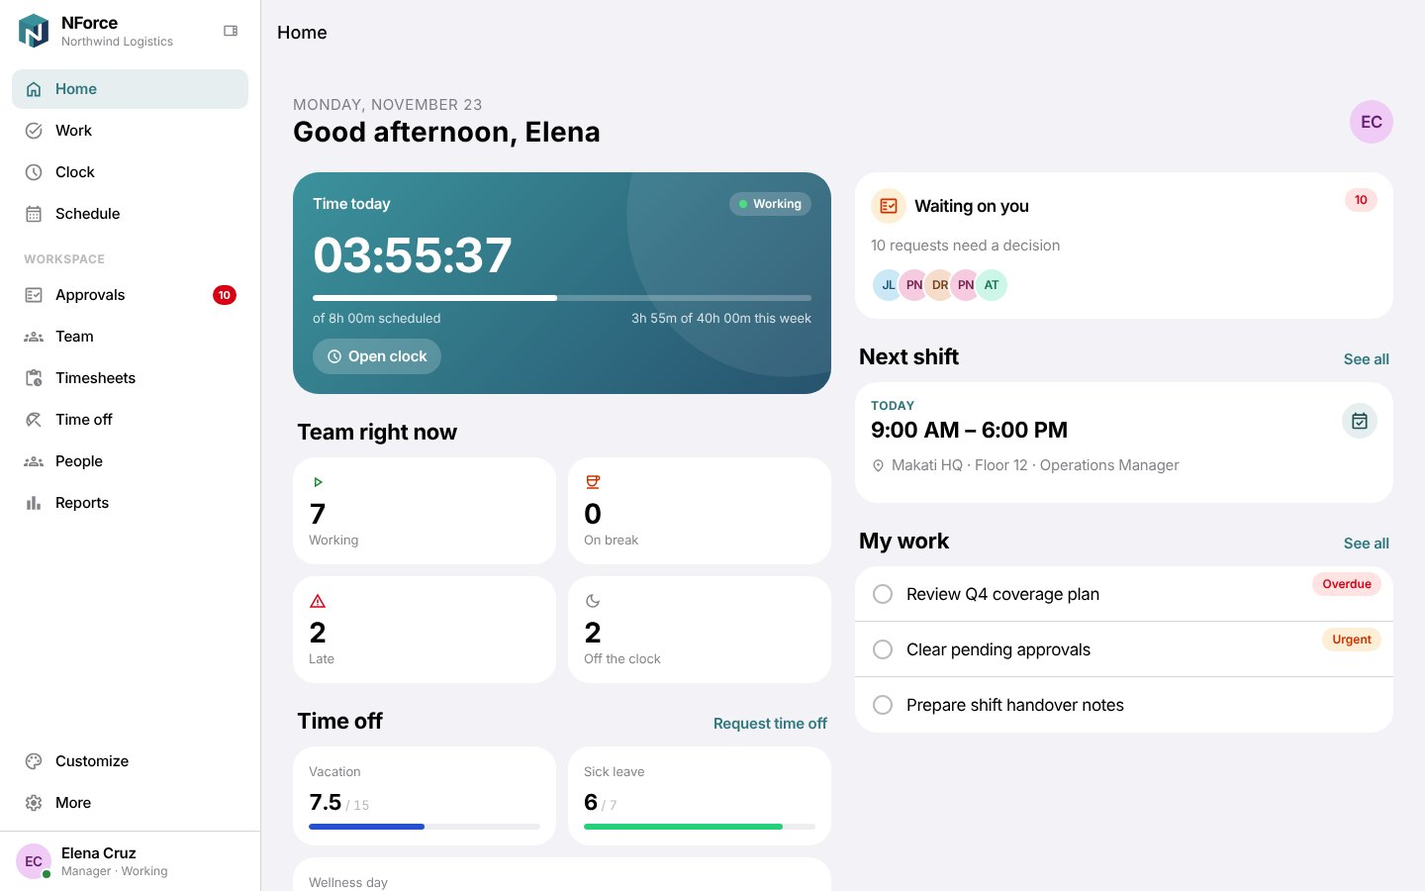
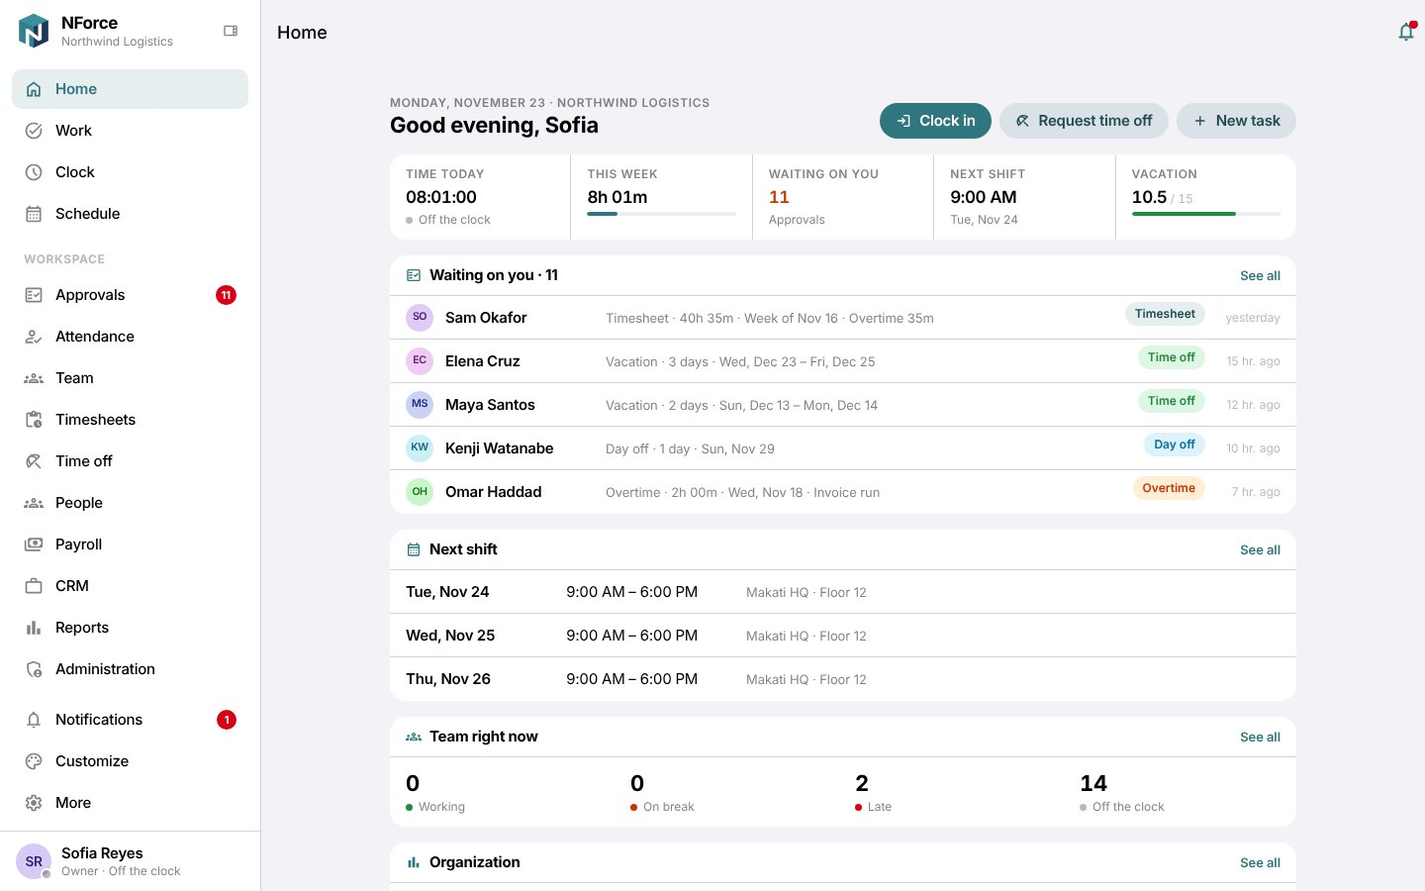
Refine access model, compact desktop Home, docs and screenshots
- Attendance opens on the widest scope a person has; plural-aware report
  insights; realistic demo absences; denser KPI rows on desktop.
- Docs: access model by department, reports architecture, ADR-008/009,
  implementation map, README personas and screenshots, progress log.

Claude-Session: https://claude.ai/code/session_01CZKR1SmqeHoKMbAoTAuBQX

diff --git a/apps/mobile/src/app/(tabs)/more/attendance.tsx b/apps/mobile/src/app/(tabs)/more/attendance.tsx
@@ -15,7 +15,7 @@ import { EmptyState, ErrorState, LoadingBlock, Screen } from '@/components/Scree
 import { Card, ListSection, SectionHeader } from '@/components/Surface';
 import { Text } from '@/components/Text';
 import { Touchable } from '@/components/Touchable';
-import { errorMessage, useAttendanceReport } from '@/data/queries';
+import { errorMessage, useAttendanceReport, useSession } from '@/data/queries';
 import type { AttendanceFlag, AttendanceReport, ReportScope } from '@/data/types';
 import { useTheme } from '@/design/theme';
 import { useResponsive } from '@/hooks/useResponsive';
@@ -30,7 +30,11 @@ export default function AttendanceScreen() {
   const t = useTheme();
   const i18n = useI18n();
   const { isDesktop } = useResponsive();
-  const [scope, setScope] = useState<ReportScope>('me');
+  const session = useSession();
+  // Open on the widest view the person has: org for owners/executives, team for leads.
+  const defaultScope: ReportScope = session.data?.reports.organization === true ? 'org' : session.data?.modules.includes('team') === true ? 'team' : 'me';
+  const [picked, setScope] = useState<ReportScope | undefined>(undefined);
+  const scope = picked ?? defaultScope;
   const [weeks, setWeeks] = useState(4);
   const report = useAttendanceReport(scope, weeks);
   const r = report.data;

diff --git a/apps/mobile/src/i18n/fil.ts b/apps/mobile/src/i18n/fil.ts
@@ -391,8 +391,10 @@ export const fil: Messages = {
   'reports.risk.low_attendance': 'Ang attendance ng {team} ay {value}, mas mababa sa 95% na target',
   'reports.risk.high_overtime': 'Ang overtime ng {team} ay {value} ng oras na natrabaho',
   'reports.risk.late_trend': 'Bumaba ng {value} puntos ang pagiging nasa oras kumpara sa nakaraan',
-  'reports.risk.approvals_overdue': '{count} approval ang naghihintay nang higit 48 oras',
-  'reports.risk.missed_punches': '{count} hindi naka-clock out ang kailangang itama',
+  'reports.risk.approvals_overdue_one': '{count} approval ang naghihintay nang higit 48 oras',
+  'reports.risk.approvals_overdue_other': '{count} approval ang naghihintay nang higit 48 oras',
+  'reports.risk.missed_punches_one': '{count} hindi naka-clock out ang kailangang itama',
+  'reports.risk.missed_punches_other': '{count} hindi naka-clock out ang kailangang itama',
   'reports.teamLine': '{count} tao · OT {ot} · ND {nd}',
   'reports.approvalsSla': 'Bilis ng pag-apruba',
   'reports.medianDecision': 'Median na oras ng desisyon',

diff --git a/apps/mobile/src/i18n/es.ts b/apps/mobile/src/i18n/es.ts
@@ -391,8 +391,10 @@ export const es: Messages = {
   'reports.risk.low_attendance': 'La asistencia de {team} es {value}, bajo la meta del 95%',
   'reports.risk.high_overtime': 'Las horas extra de {team} son el {value} del tiempo trabajado',
   'reports.risk.late_trend': 'La puntualidad bajó {value} puntos frente al período anterior',
-  'reports.risk.approvals_overdue': '{count} aprobaciones esperan más de 48 horas',
-  'reports.risk.missed_punches': '{count} salidas no registradas requieren corrección',
+  'reports.risk.approvals_overdue_one': '{count} aprobación espera más de 48 horas',
+  'reports.risk.approvals_overdue_other': '{count} aprobaciones esperan más de 48 horas',
+  'reports.risk.missed_punches_one': '{count} salida no registrada requiere corrección',
+  'reports.risk.missed_punches_other': '{count} salidas no registradas requieren corrección',
   'reports.teamLine': '{count} personas · HE {ot} · ND {nd}',
   'reports.approvalsSla': 'Tiempo de aprobación',
   'reports.medianDecision': 'Tiempo medio de decisión',

diff --git a/apps/mobile/src/i18n/en.ts b/apps/mobile/src/i18n/en.ts
@@ -404,8 +404,10 @@ export const en = {
   'reports.risk.low_attendance': '{team} attendance is {value}, below the 95% target',
   'reports.risk.high_overtime': '{team} overtime is {value} of worked time',
   'reports.risk.late_trend': 'Punctuality dropped {value} points vs the previous period',
-  'reports.risk.approvals_overdue': '{count} approvals waiting more than 48 hours',
-  'reports.risk.missed_punches': '{count} missed clock-outs need corrections',
+  'reports.risk.approvals_overdue_one': '{count} approval waiting more than 48 hours',
+  'reports.risk.approvals_overdue_other': '{count} approvals waiting more than 48 hours',
+  'reports.risk.missed_punches_one': '{count} missed clock-out needs a correction',
+  'reports.risk.missed_punches_other': '{count} missed clock-outs need corrections',
   'reports.teamLine': '{count} people · OT {ot} · ND {nd}',
   'reports.approvalsSla': 'Approval turnaround',
   'reports.medianDecision': 'Median time to decide',

diff --git a/apps/mobile/src/data/mockApi.ts b/apps/mobile/src/data/mockApi.ts
@@ -349,11 +349,11 @@ export function createMockApi(options: MockApiOptions): NForceApi {
       if (d < lastWeek && !p.restDays.includes(isoWeekday(d)) && DEMO_HOLIDAYS[d]?.kind !== 'regular') {
         const h = Math.abs(hash(`${key}hist`));
         const weeksAgo = Math.floor((Date.parse(lastWeek) - Date.parse(d)) / (7 * 86_400_000));
-        if ((p.role === 'staff' || p.role === 'supervisor') && h % 31 === 0) {
+        if ((p.role === 'staff' || p.role === 'supervisor') && h % 19 === 0) {
           onLeave.add(key); // sick leave
           continue;
         }
-        if (p.role === 'staff' && h % 53 === 7) continue; // unexcused absence
+        if (p.role === 'staff' && h % 29 === 7) continue; // unexcused absence
         const window = shiftWindow(p, d);
         const lateEvery = weeksAgo >= 5 ? 9 : weeksAgo >= 3 ? 14 : 23;
         const clockIn = h % lateEvery === 0 ? plusMinutes(window.start, 8 + (h % 27)) : plusMinutes(window.start, jitterIn);

diff --git a/apps/mobile/src/components/Charts.tsx b/apps/mobile/src/components/Charts.tsx
@@ -436,7 +436,7 @@ const styles = StyleSheet.create({
   heatGrid: { flexDirection: 'row', flexWrap: 'wrap' },
   heatCell: { width: `${100 / 7}%`, aspectRatio: 1.6, alignItems: 'center', justifyContent: 'center', padding: 2 },
   heatSquare: { width: '100%', height: '100%', borderRadius: 4 },
-  kpi: { padding: 14, gap: 2, flexGrow: 1, flexBasis: '45%', minWidth: 150 },
+  kpi: { padding: 14, gap: 2, flexGrow: 1, flexBasis: '22%', minWidth: 160 },
   delta: { flexDirection: 'row', alignItems: 'center', gap: 4 },
   toggle: { width: 28, height: 22, borderRadius: 6, borderWidth: 1, alignItems: 'center', justifyContent: 'center' },
   tableRow: { flexDirection: 'row', paddingVertical: 6, borderBottomWidth: StyleSheet.hairlineWidth, gap: 8 },

diff --git a/apps/mobile/src/app/(tabs)/more/reports.tsx b/apps/mobile/src/app/(tabs)/more/reports.tsx
@@ -229,9 +229,9 @@ function riskText(k: ExecutiveReport['risks'][number], i18n: I18n): string {
     case 'late_trend':
       return i18n.t('reports.risk.late_trend', { value: i18n.number(Math.abs(k.value) * 100, { maximumFractionDigits: 1 }) });
     case 'approvals_overdue':
-      return i18n.t('reports.risk.approvals_overdue', { count: k.value });
+      return i18n.plural('reports.risk.approvals_overdue', k.value);
     case 'missed_punches':
-      return i18n.t('reports.risk.missed_punches', { count: k.value });
+      return i18n.plural('reports.risk.missed_punches', k.value);
   }
 }
 

diff --git a/docs/architecture/mobile-app.md b/docs/architecture/mobile-app.md
@@ -1,7 +1,7 @@
 # NForce Mobile App Architecture (iOS & Android)
 
 **Status:** Implemented (Phase 1 foundation + Phase 2 workforce core) — runs against an in-memory backend  
-**Last updated:** 2026-11-23 (rev. 2)  
+**Last updated:** 2026-11-23 (rev. 3)  
 **Code:** [`apps/mobile`](../../apps/mobile), [`packages/core`](../../packages/core), [`supabase`](../../supabase)
 
 This document describes what is **implemented** in the repository today. Items marked *Planned* are not built yet.
@@ -154,12 +154,37 @@ Looking *up* the reporting line requires organization scope, so a manager can't 
 - **Customize** (More → Customize): theme (system/light/dark), 9 accent colors (default *NForce teal* from the logo, teal→navy brand gradient), density (comfortable/compact), platform look, desktop sidebar style, and the Home layout (reorder and show/hide widgets; widgets your role doesn't allow are never shown). Every accent is generated per flavor and scheme, and a test checks WCAG AA contrast for all 36 combinations.
 - **Brand:** the NForce logo (teal/navy cube with a white N) is the app icon, Android adaptive icon (foreground, background and monochrome), splash, favicon and sidebar mark. The 2048 px master is `design/brand/nforce-logo-master.jpg`, and `scripts/generate-brand-assets.py` regenerates every asset from it, cutting along the cube silhouette so the white N stays solid on any background. Brand gradient: #3B929C → #1E385B.
 
-## 13. Known gaps (not implemented)
+## 13. Access model: departments and the organization owner
+
+Role templates are defined once in `@nforce/core` (`access/permissions.ts`), seeded into SQL, and checked for drift by a test. Each department gets only what its job needs:
+
+| Role | Can | Cannot |
+| --- | --- | --- |
+| **Owner** (organization) | Everything, organization-wide: add, edit and offboard employees; assign any role; approve **any** request at any stage (override, audited); payroll, CRM, admin, reports | Approve their own requests; demote or offboard themselves; remove the last owner |
+| **Executive** | Organization reports (aggregates), CRM pipeline (read), final approval of managers' requests | Person-level attendance, employee edits, payroll |
+| **Manager** | Department attendance, schedules, approvals (final), team reports | Employee records, payroll |
+| **Supervisor** | Team attendance, review step of approvals, team reports | Final approval, employee records, payroll |
+| **HR** | Employee records incl. confidential fields; add, edit and offboard employees; org-wide attendance and time-off oversight | Approvals, payroll, granting roles they don't hold |
+| **Payroll** | Timesheets, period locking, adjustments, payroll register and export; reads punches | Employee edits, confidential HR fields, approvals |
+| **Operations** | Schedules, staffing, org-wide attendance, work assignment | Employee records, payroll, approvals |
+| **IT admin** (`org_admin`) | Workspace settings, roles and audit log | Business data (attendance, payroll, HR records) |
+| **Staff** | Their own attendance, timesheets, requests, work and directory | Anything about other people |
+
+**No privilege escalation:** a role can be assigned only by someone who already holds every one of its permissions at least as widely (`canAssignRole`, SQL `assign_role`). Nobody changes their own role. **Offboarding** reassigns direct reports to the departing person's manager and protects the last owner (`planOffboarding`, SQL `offboard_member`). All of these are tested in core, in the app's backend tests, and in SQL.
+
+## 14. Attendance, reports and the remaining modules
+
+- **Attendance** (everyone): a personal history for all; team and department views for supervisors, managers, HR, payroll and operations; organization-wide for owners and executives. Shows KPIs vs the previous period (attendance, punctuality, absences, late arrivals, worked hours, OT, night differential, missed punches), an 8-week trend, a daily heatmap, by-team bars, a sortable per-person table, an exceptions list and CSV export.
+- **Executive report**: headcount, attendance/punctuality/absenteeism with deltas, OT and ND hours, paid-hour equivalent, weekly attendance and OT trends, labor mix by pay code, team comparison against a 95% target, approval turnaround (median/p90, overdue), leave utilization, payroll readiness, an automatic "Needs attention" list, and CSV export. Executives get **aggregates only**; person-level data appears only within a viewer's access scope. In SQL, `report_attendance_summary()` folds groups under 3 people into "Other".
+- **People** (directory, profiles, reporting line; confidential fields only for the person and HR), **Payroll** (register by pay code, blockers, CSV export, period lock), **Administration** (permission matrix, members, audit log, holiday calendar, pay rules), **CRM** (pipeline, weighted forecast, stage board), **Notifications** (in-app inbox; no confidential data in previews).
+- **Desktop Home** is a single compact column: header with quick actions, a one-line summary strip, then dense panels in the user's chosen order.
+
+## 15. Known gaps (not implemented)
 
 - Real authentication and the Supabase-backed `NForceApi` (mock only today).
 - Offline outbox for clock events (idempotency keys are ready for it).
 - Push notifications, widgets/Live Activities, Wear OS / watchOS.
 - Native-device verification: the UI was verified with typecheck, lint and rendered web previews of both flavors. It has **not** yet been run on physical iOS/Android devices or simulators in CI.
-- Screens for People, Payroll, CRM, Reports and Admin (roadmap placeholders with permissions wired).
-- Timesheet and leave-balance tables in SQL (approval requests, holidays and the reporting line are implemented in migration 2).
+- CRM editing UI (the SQL `move_deal` rules exist; no demo role holds `crm.manage` except the owner).
+- Employee invitations: the backend `add_member` attaches an existing account; sending invitation emails is not built.
 - Pay amounts/payroll export: classification produces hours and multipliers only.

diff --git a/README.md b/README.md
@@ -2,7 +2,7 @@
 
 NForce is an enterprise workforce platform with role-aware workspaces: attendance, schedules, timesheets, time off, a Work Center and approvals, with HR, payroll integrations, CRM and administration on the roadmap.
 
-> **Current status (2026-11-23):** Phase 1 foundation is implemented: a native iOS and Android app (Expo / React Native), a fully tested shared domain core, and a PostgreSQL/Supabase schema with row-level security. The app runs against an in-memory backend that enforces the real business rules. Authentication and the live Supabase client are not built yet. See the [progress log](docs/PROGRESS_LOG.md) for verified evidence and known gaps.
+> **Current status (2026-11-23):** All modules in the architecture are implemented against an in-memory backend (attendance, scheduling, timesheets, time off, approvals, Work Center, people/HR, payroll preparation, CRM, reports, administration, notifications), with SQL migrations and tests for the data layer. Phase 1 foundation is implemented: a native iOS and Android app (Expo / React Native), a fully tested shared domain core, and a PostgreSQL/Supabase schema with row-level security. The app runs against an in-memory backend that enforces the real business rules. Authentication and the live Supabase client are not built yet. See the [progress log](docs/PROGRESS_LOG.md) for verified evidence and known gaps.
 
 ## What's inside
 
@@ -25,7 +25,7 @@ npm run test:db      # database migrations + RLS tests (requires PostgreSQL 15+ 
 
 Native features (SF Symbols, native tabs, haptics) need a development build: `npx expo run:ios`, `npx expo run:android`, or EAS Build. They are not available in Expo Go.
 
-In the app, open **More → Workspace profile (demo)** to switch between people in a real reporting hierarchy: Staff (Jordan) → Supervisor (Maya) → Manager (Elena) → Executive (Rafael), plus HR, Payroll, Operations and Admin. Navigation, home widgets, what you can see and what you can approve all change, because the (mock) server enforces permissions. **More → Customize** sets theme, accent color, density, platform look (iOS/Android), sidebar style and the Home layout. Widen the browser past 600 px to get the desktop sidebar layout.
+In the app, open **More → Workspace profile (demo)** to switch between people in a real reporting hierarchy: Staff (Jordan) → Supervisor (Maya) → Manager (Elena) → Executive (Rafael) → **Owner (Sofia, full organization access)**, plus HR (Hana), Payroll (Paulo), Operations (Ivy) and IT admin (Alex), each with different access. Navigation, home widgets, what you can see and what you can approve all change, because the (mock) server enforces permissions. **More → Customize** sets theme, accent color, density, platform look (iOS/Android), sidebar style and the Home layout. Widen the browser past 600 px to get the desktop sidebar layout.
 
 ## Screenshots
 
@@ -38,6 +38,10 @@ In the app, open **More → Workspace profile (demo)** to switch between people 
 | ![Home](docs/screenshots/3-desktop-home.jpg) | ![Team table](docs/screenshots/4-desktop-team-table.jpg) |
 | ![Approvals](docs/screenshots/5-desktop-approvals.jpg) | ![Timesheet with pay categories](docs/screenshots/6-desktop-timesheet-pay.jpg) |
 | ![Customize, dark violet](docs/screenshots/7-desktop-customize-dark-violet.jpg) | ![Icon rail, compact, orange](docs/screenshots/8-desktop-rail-compact-orange.jpg) |
+| ![Executive report](docs/screenshots/9-desktop-executive-reports.jpg) | ![Attendance](docs/screenshots/10-desktop-attendance.jpg) |
+| ![Payroll register](docs/screenshots/11-desktop-payroll.jpg) | ![Permission matrix](docs/screenshots/12-desktop-permission-matrix.jpg) |
+| ![Profile seen by HR](docs/screenshots/13-desktop-profile-hr.jpg) | ![CRM pipeline](docs/screenshots/14-desktop-crm.jpg) |
+| ![Home, dark](docs/screenshots/15-desktop-home-dark.jpg) | ![Phone: home, executive report, attendance](docs/screenshots/16-phone-reports-attendance.jpg) |
 
 Rendered from the production web bundle with Playwright, with mock data. Not yet captured on physical devices.
 

diff --git a/docs/PROGRESS_LOG.md b/docs/PROGRESS_LOG.md
@@ -76,6 +76,22 @@ This log records meaningful project progress. Update it in the same pull request
 - **Known gaps:** The master is a JPEG; a vector (SVG/PDF) original is still preferred for print and store marketing. Not checked on physical devices or launchers.
 - **Next steps:** Add the vector master when available and re-run the generator.
 
+## 2026-11-23 — Attendance & executive reports, all planned modules, owner access model, compact desktop Home
+
+- **PR / issue:** Not yet opened (branch `claude/vigilant-maxwell-mkbi61`).
+- **Phase/module:** Phases 3–6 (Work Center/Operations reporting, HR & Payroll, CRM, enterprise analytics/admin) and the access model.
+- **Status:** Implemented. Unit-, SQL- and render-verified. Not verified on devices.
+- **Summary:**
+  - **Attendance for all** (self/team/org) and an **executive report** (KPIs with deltas, trends, labor mix, team comparison, approval SLA, leave utilization, payroll readiness, risks, CSV). Core: `reports/attendance.ts`, `reports/approvals.ts`, `export/csv.ts` (formula-injection safe). The demo backend now has 9 weeks of history.
+  - **Modules replacing placeholders:** People (directory, profiles, confidential fields for self/HR only), Payroll (register by pay code with approved-OT-only payment, blockers, CSV, lock), Administration (permission matrix, members, audit log, holidays, pay rules), CRM (pipeline, weighted forecast), Notifications inbox, plus a notification bell.
+  - **Access model v2:** Organization **Owner** with every permission and approval override; distinct HR, Payroll, Operations and IT admin templates; role assignment without privilege escalation; add/edit/offboard employees with report reassignment and last-owner protection. New demo person: Sofia Reyes (Owner).
+  - **Desktop Home** redone as one compact, professional column (header + quick actions, summary strip, dense panels in the user's order).
+  - **SQL:** migration 3 adds timesheets (immutable once locked), the leave ledger and balance view, payroll periods and the lock RPC, trigger-written notifications, CRM tables with the `move_deal` rules, and the aggregate-only `report_attendance_summary` (groups under 3 folded). Migration 4 adds the owner role and new permissions (role templates re-synced), request payload validation, the owner override in `decide_request`, and `assign_role` / `add_member` / `offboard_member`.
+- **Corrections found by tests during this work:** leave requests without a leave type or day count could be submitted and could not post to the ledger, so payload validation was added in SQL. A local-variable shadowing bug in the backend report functions was fixed. Demo absences were too rare to be realistic (attendance showed 100%), so their frequency was tuned.
+- **Validation performed (2026-11-23):** `npm run typecheck` passed; `npm run lint` passed (0 warnings); core **120 tests** passed (lines 99.8%, statements 99.0%, branches 91.9%, functions 98.0%); app **80 tests** passed; `./scripts/test-db.sh` on PostgreSQL 16.15 applied all 4 migrations and **88 SQL assertions** passed; the web bundle was built, 15 new screens were rendered with Playwright with no page errors, and scripted flows passed (owner final approval 11 → 10; HR offered only Staff/HR roles, added an employee, offboarded an employee; HR has no Payroll/Approvals navigation).
+- **Known gaps:** Authentication and the Supabase client are still mock. No CRM editing UI. Employee invitations do not send email. Not tested on devices. Pay rules must be validated by payroll/legal.
+- **Next steps:** Supabase client + auth; invitation flow; CRM editing for a sales role; device QA and accessibility audit; EAS builds.
+
 ## Future entry template
 
 Copy and complete for each meaningful change:

diff --git a/docs/architecture/decisions.md b/docs/architecture/decisions.md
@@ -50,3 +50,17 @@ Short, durable records of significant decisions. Status values: Proposed / Accep
 - **Context:** Night differential, overtime, rest-day and holiday premiums drive payroll. Rules differ by jurisdiction and contract.
 - **Decision:** Classify worked minutes per day into coded lines with multipliers from a versionable `PayPolicy` (PH Labor Code defaults, minimum OT block). Shifts are attributed to their start date. Payroll systems apply rates. OT is paid only when an approved OT request covers it.
 - **Consequences:** Transparent, testable hours for employees and payroll. Money calculations, statutory contributions and alternative attribution rules remain payroll-provider responsibilities and must be validated by professionals.
+
+## ADR-008 — Organization owner, distinct department roles, no privilege escalation
+
+- **Status:** Accepted (2026-11-23)
+- **Context:** HR, Payroll, Operations and IT need different access, and the organization needs one superior role that can manage everything and approve anything.
+- **Decision:** Add an `owner` template holding every permission organization-wide, plus `org.manage` (approval override) and `people.offboard`. Narrow each department template to its job (see the mobile architecture §13). A role may be assigned only by someone who already holds all of its permissions at least as widely. No one may change their own role, self-approve, or remove the last owner. Enforced in core, the app backend and SQL RPCs.
+- **Consequences:** Departments are least-privilege by default, and the owner can resolve any blockage. Owner actions are powerful, so every override and member change is audited. Organizations should keep at least two owners for resilience.
+
+## ADR-009 — Reports are aggregates of one per-person-day record
+
+- **Status:** Accepted (2026-11-23)
+- **Context:** Personal, team and executive reports must reconcile, and executives should not see individual attendance by default.
+- **Decision:** Every attendance metric is computed from one `DayRecord` per person per day (`@nforce/core` `reports/attendance.ts`). Reports cover completed days through yesterday. Person-level rows are returned only when the viewer may see each person, and SQL aggregate reports fold small groups (<3 people) into "Other".
+- **Consequences:** Numbers match across levels and privacy is protected by construction. Live "today" status lives in the Team view, not in reports.

diff --git a/docs/architecture/enterprise-workforce-platform.md b/docs/architecture/enterprise-workforce-platform.md
@@ -247,8 +247,11 @@ Confirm before implementation: initial customer scope (internal, multi-tenant Sa
 | Desktop mode (sidebar, multi-column, data tables) and user customization (theme, accent, density, home layout) | Implemented in app | `apps/mobile/src/components/Sidebar.tsx`, `apps/mobile/src/app/(tabs)/more/customize.tsx` |
 | Leave vs day-off rules | Implemented in core; SQL tables *Planned (Phase 2)* | `packages/core/src/leave` |
 | Mobile app: Home, Work, Clock, Schedule, More, Approvals, Timesheets, Time off | Implemented against an in-memory backend | `apps/mobile` |
+| Organization owner + distinct department roles; role assignment without escalation; add/edit/offboard employees | Implemented (core + SQL + app) and tested | `packages/core/src/access`, `packages/core/src/people`, `supabase/migrations/20261126000000_access_model_owner.sql` |
+| Attendance analytics (personal/team/org) and executive reporting with CSV export | Implemented (core + app); SQL aggregate summary | `packages/core/src/reports`, `apps/mobile/src/app/(tabs)/more/{attendance,reports}.tsx` |
+| Timesheets, leave ledger, payroll periods, notifications, CRM tables in SQL | Implemented with RLS and tests | `supabase/migrations/20261125000000_workforce_records_reports.sql` |
+| People, Payroll, Administration, CRM, Notifications screens | Implemented against the in-memory backend | `apps/mobile/src/app/(tabs)/more/` |
 | Real authentication / Supabase client | *Planned* | — |
-| People, Payroll, CRM, Reports, Admin screens | *Planned* (navigation and permissions wired) | `apps/mobile/src/app/(tabs)/more/module` |
 
 Decisions are recorded in [Architecture Decision Records](./decisions.md). Award and quality targets are in the [Award-Readiness Guide](../product/award-readiness.md).
 
